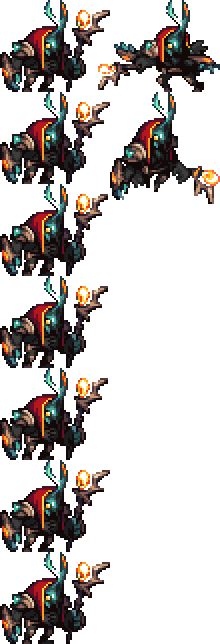
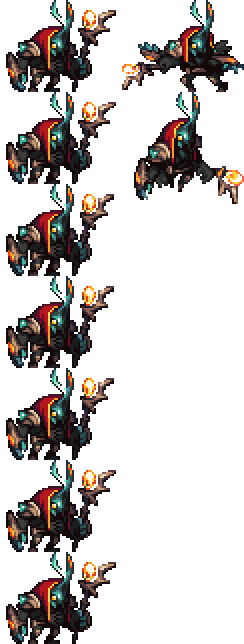
glassweaver framing fix

Changed region(s): [[0.0, 0.0, 1.0, 1.0]]

diff --git a/Content/Bosses/GlassMiniboss/NPCs.GlassweaverWaiting.cs b/Content/Bosses/GlassMiniboss/NPCs.GlassweaverWaiting.cs
@@ -9,7 +9,7 @@ namespace StarlightRiver.Content.Bosses.GlassMiniboss
 {
 	class GlassweaverWaiting : ModNPC
 	{
-		public const int FRAME_WIDTH = 110;
+		public const int FRAME_WIDTH = 124;
 		public const int FRAME_HEIGHT = 92;
 
 		public Player talkingTo;
@@ -85,7 +85,7 @@ namespace StarlightRiver.Content.Bosses.GlassMiniboss
 				if (Timer == 60)
 				{
 					NPC.velocity.Y -= 20;
-					NPC.frame = new Rectangle(FRAME_WIDTH, FRAME_HEIGHT, FRAME_WIDTH, 112);
+					NPC.frame = new Rectangle(FRAME_WIDTH, FRAME_HEIGHT, FRAME_WIDTH, 124);
 				}
 
 				if (Timer > 60)
